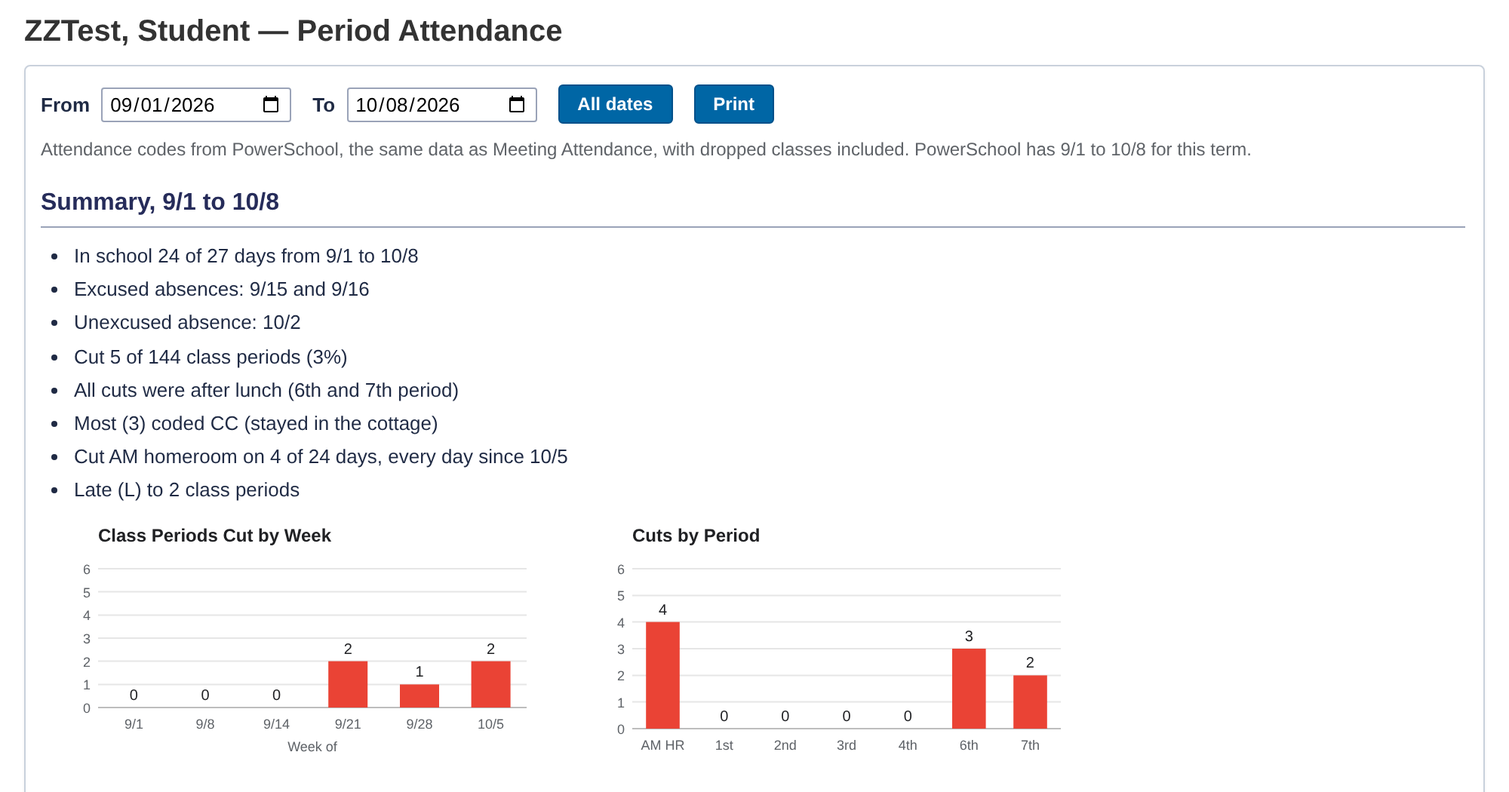
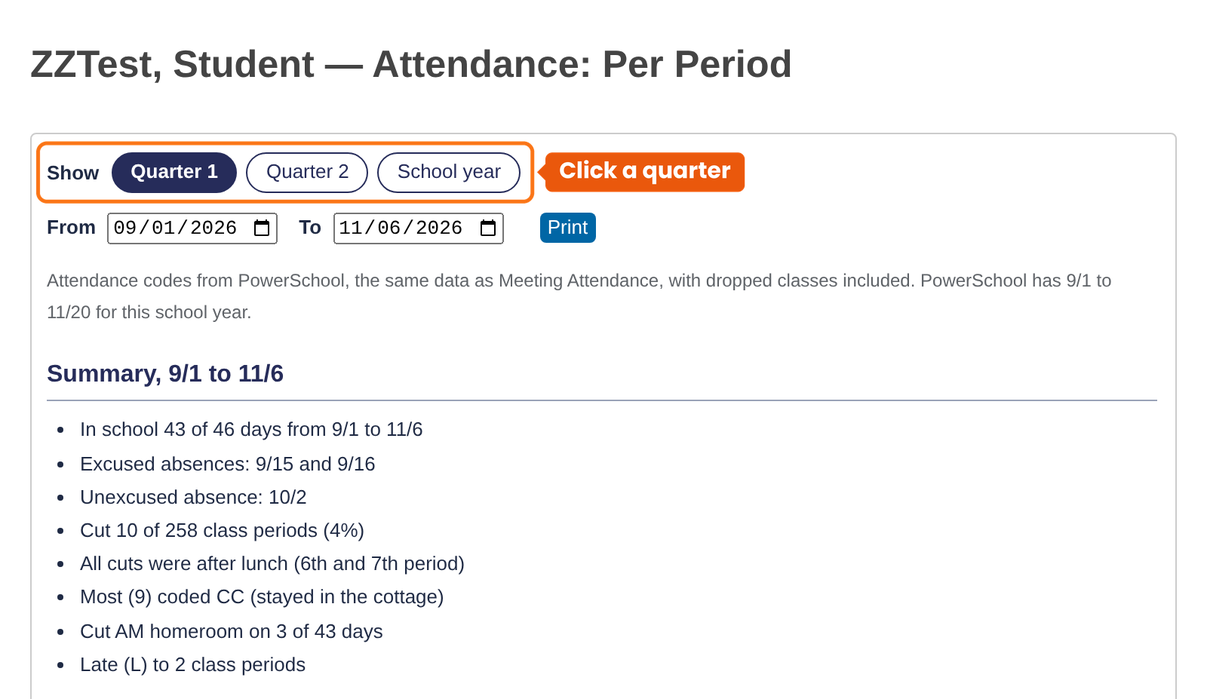
Attendance: Per Period - quarter buttons (Quarter 1, Quarter 2, School year), no term change; new pictures

diff --git a/attendance-reports-admin.html b/attendance-reports-admin.html
@@ -133,15 +133,15 @@ body.narrow table.codes td.c{width:auto}
 <div class="top"><div class="kicker">SUMMIT POWERSCHOOL HELP CENTER &middot; ADMIN PORTAL</div><h1>Attendance Reports</h1></div>
 <div class="chips"><span class="chip">SOCIAL WORKERS &middot; COUNSELORS &middot; COORDINATORS</span><span class="chip">ATTENDANCE MENU</span><span class="chip">LOOK &amp; PRINT ONLY</span><a class="full" id="full" href="#" target="_blank" rel="noopener">OPEN FULL SCREEN &nearr;</a></div>
 <div class="layout">
-<nav class="rail" aria-label="Steps"><button data-s="start" data-num="0"><span class="n">?</span><span class="t">Which one do I need?</span></button><div class="grp">PER PERIOD</div><button data-s="step-1" data-num="1"><span class="n">1</span><span class="t">Open it from the menu</span></button><button data-s="step-2" data-num="1"><span class="n">2</span><span class="t">Pick the student</span></button><button data-s="step-3" data-num="1"><span class="n">3</span><span class="t">Summary &amp; charts</span></button><button data-s="step-4" data-num="1"><span class="n">4</span><span class="t">Codes by Day</span></button><button data-s="step-5" data-num="1"><span class="n">5</span><span class="t">Comments</span></button><div class="grp">PER DAY</div><button data-s="step-6" data-num="1"><span class="n">6</span><span class="t">Open it from the menu</span></button><button data-s="step-7" data-num="1"><span class="n">7</span><span class="t">Student, then dates</span></button><button data-s="step-8" data-num="1"><span class="n">8</span><span class="t">Check the yellow box</span></button><button data-s="step-9" data-num="1"><span class="n">9</span><span class="t">Print or Save as PDF</span></button></nav>
+<nav class="rail" aria-label="Steps"><button data-s="start" data-num="0"><span class="n">?</span><span class="t">Which one do I need?</span></button><div class="grp">PER PERIOD</div><button data-s="step-1" data-num="1"><span class="n">1</span><span class="t">Open it from the menu</span></button><button data-s="step-2" data-num="1"><span class="n">2</span><span class="t">Pick the student</span></button><button data-s="step-3" data-num="1"><span class="n">3</span><span class="t">Quarter &amp; Summary</span></button><button data-s="step-4" data-num="1"><span class="n">4</span><span class="t">Codes by Day</span></button><button data-s="step-5" data-num="1"><span class="n">5</span><span class="t">Comments</span></button><div class="grp">PER DAY</div><button data-s="step-6" data-num="1"><span class="n">6</span><span class="t">Open it from the menu</span></button><button data-s="step-7" data-num="1"><span class="n">7</span><span class="t">Student, then dates</span></button><button data-s="step-8" data-num="1"><span class="n">8</span><span class="t">Check the yellow box</span></button><button data-s="step-9" data-num="1"><span class="n">9</span><span class="t">Print or Save as PDF</span></button></nav>
 <main>
-<section class="step" id="start"><span class="eyebrow">WHICH ONE DO I NEED?</span><h2>Two Summit reports in the Attendance menu</h2><p class="lead">Both live in the left menu under <span class="path">Attendance</span> &rarr; <span class="path">Summit Attendance Reports</span>. Both are look-and-print only &mdash; nothing on either page changes attendance.</p><div class="boxes two"><div class="box"><div class="bl">&#9638; ATTENDANCE: PER PERIOD</div><p><b>Every period, every day.</b> The code for every school day and every period (AM homeroom, 1st&ndash;4th, 6th, 7th), with the <b>cuts counted for you</b> and two charts. Use it to spot a pattern &mdash; before a meeting, a call home or a team check-in.</p><p style="margin-top:8px"><b>Who uses it:</b> social workers, counselors, coordinators. Teachers have the same screen in PowerTeacher.</p></div><div class="box"><div class="bl">&#128424; ATTENDANCE: PER DAY</div><p><b>Present / Absent, to send.</b> One line per school day with month subtotals, no-school days and totals, ready to <b>print or save as a PDF</b>. Built for <b>district and agency requests</b>: one month, the school year so far, or any dates.</p><p style="margin-top:8px"><b>Who uses it:</b> Summit's executive assistant, or whoever gets the request. Teachers have it too.</p></div></div><div class="callout"><div class="clabel">GOOD TO KNOW</div><div class="gk"><span class="ic">&#128228;</span><span>A district asked for attendance? Send <b>Attendance: Per Day</b>. Per Period is for us, not for districts.</span></div><div class="gk"><span class="ic">&#128274;</span><span><b>Look and print only.</b> Nothing on either page changes attendance.</span></div><div class="gk"><span class="ic">&#129514;</span><span>ZZTest isn't in these lists on purpose. Looking can't change anything, so any real student is fine.</span></div></div><div class="pager"><button class="ghost" disabled>Back</button><button data-go="step-1">Start: Per Period &rarr;</button></div></section>
+<section class="step" id="start"><span class="eyebrow">WHICH ONE DO I NEED?</span><h2>Two Summit reports in the Attendance menu</h2><p class="lead">Both live in the left menu under <span class="path">Attendance</span> &rarr; <span class="path">Summit Attendance Reports</span>. Both are look-and-print only &mdash; nothing on either page changes attendance.</p><div class="boxes two"><div class="box"><div class="bl">&#9638; ATTENDANCE: PER PERIOD</div><p><b>Every period, every day.</b> The code for every school day and every period (AM homeroom, 1st&ndash;4th, 6th, 7th), for <b>any quarter or the whole school year</b>, with the <b>cuts counted for you</b> and two charts. Use it to spot a pattern &mdash; before a meeting, a call home or a team check-in.</p><p style="margin-top:8px"><b>Who uses it:</b> social workers, counselors, coordinators. Teachers have the same screen in PowerTeacher.</p></div><div class="box"><div class="bl">&#128424; ATTENDANCE: PER DAY</div><p><b>Present / Absent, to send.</b> One line per school day with month subtotals, no-school days and totals, ready to <b>print or save as a PDF</b>. Built for <b>district and agency requests</b>: one month, the school year so far, or any dates.</p><p style="margin-top:8px"><b>Who uses it:</b> Summit's executive assistant, or whoever gets the request. Teachers have it too.</p></div></div><div class="callout"><div class="clabel">GOOD TO KNOW</div><div class="gk"><span class="ic">&#128228;</span><span>A district asked for attendance? Send <b>Attendance: Per Day</b>. Per Period is for us, not for districts.</span></div><div class="gk"><span class="ic">&#128274;</span><span><b>Look and print only.</b> Nothing on either page changes attendance.</span></div><div class="gk"><span class="ic">&#129514;</span><span>ZZTest isn't in these lists on purpose. Looking can't change anything, so any real student is fine.</span></div></div><div class="pager"><button class="ghost" disabled>Back</button><button data-go="step-1">Start: Per Period &rarr;</button></div></section>
 
 <section class="step" id="step-1"><span class="eyebrow">PER PERIOD &middot; STEP 1 OF 5</span><h2>Attendance &rarr; Summit Attendance Reports &rarr; Attendance: Per Period</h2><ol class="steps"><li><span class="num">1</span><div>In the left menu, click <span class="path">Attendance</span>.</div></li><li><span class="num">2</span><div>In the third column, <b>Summit Attendance Reports</b>, click <span class="path">Attendance: Per Period</span>.</div></li></ol><figure class="fig"><a href="ar-admin-1.png" target="_blank" rel="noopener"><img src="ar-admin-1.png" alt="the Attendance menu with Summit Attendance Reports"></a><div class="ph"><span class="pl">PICTURE 1</span>Screenshot coming: the Attendance menu with Summit Attendance Reports.</div><figcaption><b>PICTURE 1</b> &mdash; The Attendance menu: Summit Attendance Reports is the third column (Attendance: Per Period and Attendance: Per Day).</figcaption></figure><div class="pager"><button class="ghost" data-go="start">Back</button><button data-go="step-2">Next: Pick the student &rarr;</button></div></section>
 
-<section class="step" id="step-2"><span class="eyebrow">PER PERIOD &middot; STEP 2 OF 5</span><h2>Pick the student</h2><ol class="steps"><li><span class="num">1</span><div>Type a <b>last name, first name or student number</b> in the box and click the student.</div></li><li><span class="num">2</span><div>Students who have left Summit are in the list too.</div></li><li><span class="num">3</span><div>Wrong one? Click <span class="ui">Pick a different student</span>.</div></li></ol><figure class="fig"><a href="ar-admin-2.png" target="_blank" rel="noopener"><img src="ar-admin-2.png" alt="the student search box"></a><div class="ph"><span class="pl">PICTURE 2</span>Screenshot coming: the student search box.</div><figcaption><b>PICTURE 2</b> &mdash; Attendance: Per Period &mdash; type a last name, first name or student number in the box, then click the student.</figcaption></figure><div class="pager"><button class="ghost" data-go="step-1">Back</button><button data-go="step-3">Next: Summary &amp; charts &rarr;</button></div></section>
+<section class="step" id="step-2"><span class="eyebrow">PER PERIOD &middot; STEP 2 OF 5</span><h2>Pick the student</h2><ol class="steps"><li><span class="num">1</span><div>Type a <b>last name, first name or student number</b> in the box and click the student.</div></li><li><span class="num">2</span><div>Students who have left Summit are in the list too.</div></li><li><span class="num">3</span><div>Wrong one? Click <span class="ui">Pick a different student</span>.</div></li></ol><figure class="fig"><a href="ar-admin-2.png" target="_blank" rel="noopener"><img src="ar-admin-2.png" alt="the student search box"></a><div class="ph"><span class="pl">PICTURE 2</span>Screenshot coming: the student search box.</div><figcaption><b>PICTURE 2</b> &mdash; Attendance: Per Period &mdash; type a last name, first name or student number in the box, then click the student.</figcaption></figure><div class="pager"><button class="ghost" data-go="step-1">Back</button><button data-go="step-3">Next: Quarter &amp; Summary &rarr;</button></div></section>
 
-<section class="step" id="step-3"><span class="eyebrow">PER PERIOD &middot; STEP 3 OF 5</span><h2>Read the Summary and the two charts</h2><p class="lead">It opens on the <b>whole term so far</b>.</p><ul class="bul"><li>The <b>Summary</b> says it in a few lines: days in school, absences, cuts and when they happen, <b>CC</b> (stayed in the cottage) vs <b>CG</b> (on campus, not in class), AM homeroom cuts and lates.</li><li>The charts show <b>cuts by week</b> and <b>cuts by period</b>.</li><li>Change <b>From</b> / <b>To</b> for a stretch &mdash; <span class="ui">All dates</span> puts it back. <span class="ui">Print</span> prints just the report; <span class="ui">Open their Attendance Overview</span> opens PowerSchool's own page.</li></ul><figure class="fig"><a href="ar-admin-3.png" target="_blank" rel="noopener"><img src="ar-admin-3.png" alt="Attendance: Per Period with the dates, Summary and charts"></a><div class="ph"><span class="pl">PICTURE 3</span>Screenshot coming: Attendance: Per Period with the dates, Summary and charts.</div><figcaption><b>PICTURE 3</b> &mdash; Attendance: Per Period &mdash; the dates (From, To, All dates, Print), the Summary and the two cut charts (sample: the test student).</figcaption></figure><div class="pager"><button class="ghost" data-go="step-2">Back</button><button data-go="step-4">Next: Codes by Day &rarr;</button></div></section>
+<section class="step" id="step-3"><span class="eyebrow">PER PERIOD &middot; STEP 3 OF 5</span><h2>Pick the quarter, then read the Summary</h2><p class="lead">It opens on <b>this quarter</b>.</p><ul class="bul"><li>Next to <b>Show</b>, click <span class="ui">Quarter 1</span>, <span class="ui">Quarter 2</span>&hellip; or <span class="ui">School year</span>. <b>No need to change the term in the top corner.</b></li><li>A <b>greyed-out quarter</b> means the student has no school days in it.</li><li>For any other stretch, change <b>From</b> / <b>To</b>.</li><li>The <b>Summary</b> says it in a few lines: days in school, absences, cuts and when they happen, <b>CC</b> (stayed in the cottage) vs <b>CG</b> (on campus, not in class), AM homeroom cuts and lates.</li><li>The charts show <b>cuts by week</b> (by month for a long stretch) and <b>cuts by period</b>.</li><li><span class="ui">Print</span> prints just the report; <span class="ui">Open their Attendance Overview</span> opens PowerSchool's own page.</li></ul><figure class="fig"><a href="ar-admin-3.png" target="_blank" rel="noopener"><img src="ar-admin-3.png" alt="Attendance: Per Period with the quarter buttons, the dates, the Summary and the charts"></a><div class="ph"><span class="pl">PICTURE 3</span>Screenshot coming: Attendance: Per Period with the quarter buttons, the dates, the Summary and the charts.</div><figcaption><b>PICTURE 3</b> &mdash; Attendance: Per Period &mdash; the Show buttons (Quarter 1, Quarter 2, School year), From, To and Print, then the Summary and the two cut charts (sample: the test student).</figcaption></figure><div class="pager"><button class="ghost" data-go="step-2">Back</button><button data-go="step-4">Next: Codes by Day &rarr;</button></div></section>
 
 <section class="step" id="step-4"><span class="eyebrow">PER PERIOD &middot; STEP 4 OF 5</span><h2>Read Codes by Day</h2><p class="lead">One row per school day, grouped by week, and one column per period: <b>AM HR</b>, <b>1st</b>&ndash;<b>4th</b>, <b>6th</b>, <b>7th</b> (no 5th &mdash; that's lunch).</p><div class="key"><span class="cut">Cut &mdash; CC, CG</span><span class="abs">Absent &mdash; A, OSS</span><span class="exc">Excused &mdash; EA, AP, OC, TR, WS, IH</span><span class="late">Late &mdash; L</span></div><p class="txt">A <b>blank</b> box = no code entered, which counts as present. A <b>dash</b> = not in that class yet.</p><figure class="fig"><a href="ar-admin-4.png" target="_blank" rel="noopener"><img src="ar-admin-4.png" alt="the Codes by Day grid"></a><div class="ph"><span class="pl">PICTURE 4</span>Screenshot coming: the Codes by Day grid.</div><figcaption><b>PICTURE 4</b> &mdash; Codes by Day: one row per school day, one column per period. Pink = cut, red = absent, blue = excused, yellow = late (sample: the test student).</figcaption></figure><div class="pager"><button class="ghost" data-go="step-3">Back</button><button data-go="step-5">Next: Comments &rarr;</button></div></section>
 

diff --git a/attendance-reports-teacher.html b/attendance-reports-teacher.html
@@ -135,7 +135,7 @@ body.narrow table.codes td.c{width:auto}
 <div class="layout">
 <nav class="rail" aria-label="Steps"><button data-s="start" data-num="0"><span class="n">?</span><span class="t">Which one do I need?</span></button><div class="grp">HOW TO OPEN EITHER ONE</div><button data-s="step-1" data-num="1"><span class="n">1</span><span class="t">Start Page &rarr; Student Information</span></button><button data-s="step-2" data-num="1"><span class="n">2</span><span class="t">Click the student</span></button><button data-s="step-3" data-num="1"><span class="n">3</span><span class="t">Select Screens</span></button><div class="grp">PER DAY</div><button data-s="step-4" data-num="1"><span class="n">4</span><span class="t">Pick the dates</span></button><button data-s="step-5" data-num="1"><span class="n">5</span><span class="t">Check the yellow box</span></button><button data-s="step-6" data-num="1"><span class="n">6</span><span class="t">Print or Save as PDF</span></button><div class="grp">PER PERIOD</div><button data-s="step-7" data-num="1"><span class="n">7</span><span class="t">The dates</span></button><button data-s="step-8" data-num="1"><span class="n">8</span><span class="t">Summary &amp; charts</span></button><button data-s="step-9" data-num="1"><span class="n">9</span><span class="t">Codes by Day</span></button><button data-s="step-10" data-num="1"><span class="n">10</span><span class="t">Comments</span></button></nav>
 <main>
-<section class="step" id="start"><span class="eyebrow">WHICH ONE DO I NEED?</span><h2>Two attendance screens, on every student's page</h2><p class="lead">Both sit at the <b>top of Select Screens</b> on any student's page. Both are look-and-print only &mdash; nothing on either one changes attendance.</p><div class="boxes two"><div class="box"><div class="bl">&#128424; ATTENDANCE: PER DAY</div><p><b>Present / Absent, to send to a district.</b> One line per school day with month subtotals, no-school days and totals, ready to <b>print or save as a PDF</b>. <b>This is the one you send</b> when a district or agency asks for a student's attendance: one month, the school year so far, or any dates. Same record the office prints.</p></div><div class="box"><div class="bl">&#9638; ATTENDANCE: PER PERIOD</div><p><b>Every period, every day.</b> The code for every school day and every period (AM homeroom, 1st&ndash;4th, 6th, 7th), with the <b>cuts counted for you</b> and two charts. For <b>inside Summit</b> &mdash; a team check-in, a call home, a parent conversation &mdash; not for sending to a district.</p></div></div><div class="callout"><div class="clabel">GOOD TO KNOW</div><div class="gk"><span class="ic">&#128228;</span><span>A district asked for attendance? Send <b>Attendance: Per Day</b>. Per Period is for us, not for districts.</span></div><div class="gk"><span class="ic">&#128274;</span><span><b>Look and print only.</b> Nothing here changes attendance. Today's codes are fixed in Take Attendance; an older date &mdash; reach out.</span></div></div><div class="pager"><button class="ghost" disabled>Back</button><button data-go="step-1">Start: open a student &rarr;</button></div></section>
+<section class="step" id="start"><span class="eyebrow">WHICH ONE DO I NEED?</span><h2>Two attendance screens, on every student's page</h2><p class="lead">Both sit at the <b>top of Select Screens</b> on any student's page. Both are look-and-print only &mdash; nothing on either one changes attendance.</p><div class="boxes two"><div class="box"><div class="bl">&#128424; ATTENDANCE: PER DAY</div><p><b>Present / Absent, to send to a district.</b> One line per school day with month subtotals, no-school days and totals, ready to <b>print or save as a PDF</b>. <b>This is the one you send</b> when a district or agency asks for a student's attendance: one month, the school year so far, or any dates. Same record the office prints.</p></div><div class="box"><div class="bl">&#9638; ATTENDANCE: PER PERIOD</div><p><b>Every period, every day.</b> The code for every school day and every period (AM homeroom, 1st&ndash;4th, 6th, 7th), for <b>any quarter or the whole school year</b>, with the <b>cuts counted for you</b> and two charts. For <b>inside Summit</b> &mdash; a team check-in, a call home, a parent conversation &mdash; not for sending to a district.</p></div></div><div class="callout"><div class="clabel">GOOD TO KNOW</div><div class="gk"><span class="ic">&#128228;</span><span>A district asked for attendance? Send <b>Attendance: Per Day</b>. Per Period is for us, not for districts.</span></div><div class="gk"><span class="ic">&#128274;</span><span><b>Look and print only.</b> Nothing here changes attendance. Today's codes are fixed in Take Attendance; an older date &mdash; reach out.</span></div></div><div class="pager"><button class="ghost" disabled>Back</button><button data-go="step-1">Start: open a student &rarr;</button></div></section>
 
 <section class="step" id="step-1"><span class="eyebrow">OPEN IT &middot; STEP 1 OF 3</span><h2>Start Page &rarr; Student Information</h2><ol class="steps"><li><span class="num">1</span><div>On your <b>Start Page</b>, find the class and click the little <b>ID-card icon</b> in the <b>Student Information</b> column.</div></li><li><span class="num">2</span><div>The students in that class come up.</div></li></ol><figure class="fig"><a href="ar-teacher-1.png" target="_blank" rel="noopener"><img src="ar-teacher-1.png" alt="the Start Page with the Student Information column marked"></a><div class="ph"><span class="pl">PICTURE 1</span>Screenshot coming: the Start Page with the Student Information column marked.</div><figcaption><b>PICTURE 1</b> &mdash; Start Page: click the ID-card icon in the Student Information column for the class.</figcaption></figure><div class="pager"><button class="ghost" data-go="start">Back</button><button data-go="step-2">Next: Click the student &rarr;</button></div></section>
 
@@ -154,9 +154,9 @@ body.narrow table.codes td.c{width:auto}
 
 <section class="step" id="step-6"><span class="eyebrow">PER DAY &middot; STEP 3 OF 3</span><h2>Print or Save as PDF</h2><ol class="steps"><li><span class="num">1</span><div>The <b>preview</b> is exactly what prints: <b>Student Attendance Record</b> with the name, student #, date of birth, district of residence, totals and every school day.</div></li><li><span class="num">2</span><div>Click <span class="ui">Print or Save as PDF</span>.</div></li><li><span class="num">3</span><div>In the print window, pick a printer &mdash; or change <b>Destination</b> to <b>Save as PDF</b> to email it.</div></li></ol><div class="callout"><div class="clabel">GOOD TO KNOW</div><div class="gk"><span class="ic">&#9989;</span><span><b>Present</b> on the Per Day record = in school for at least one period &mdash; CG and CC count, the student was on grounds. It stops at yesterday; today isn't final until tomorrow.</span></div></div><div class="pager"><button class="ghost" data-go="step-5">Back</button><button data-go="step-7">Next: Per Period &rarr;</button></div></section>
 
-<section class="step" id="step-7"><span class="eyebrow">PER PERIOD &middot; PART 1 OF 4</span><h2>The dates &mdash; From, To, All dates, Print</h2><ol class="steps"><li><span class="num">1</span><div>It opens on the <b>whole term so far</b>.</div></li><li><span class="num">2</span><div>Change <b>From</b> and <b>To</b> to look at just a stretch &mdash; since the last meeting, say. <span class="ui">All dates</span> puts it back.</div></li><li><span class="num">3</span><div><span class="ui">Print</span> prints just the report, not the PowerSchool menus.</div></li></ol><figure class="fig"><a href="ar-teacher-3.png" target="_blank" rel="noopener"><img src="ar-teacher-3.png" alt="Attendance: Per Period with the dates, Summary and charts"></a><div class="ph"><span class="pl">PICTURE 3</span>Screenshot coming: Attendance: Per Period with the dates, Summary and charts.</div><figcaption><b>PICTURE 3</b> &mdash; Attendance: Per Period &mdash; the dates (From, To, All dates, Print), the Summary and the two cut charts (sample: the test student).</figcaption></figure><div class="pager"><button class="ghost" data-go="step-6">Back</button><button data-go="step-8">Next: Summary &amp; charts &rarr;</button></div></section>
+<section class="step" id="step-7"><span class="eyebrow">PER PERIOD &middot; PART 1 OF 4</span><h2>The dates &mdash; quarter buttons, From, To, Print</h2><ol class="steps"><li><span class="num">1</span><div>It opens on <b>this quarter</b>.</div></li><li><span class="num">2</span><div>Next to <b>Show</b>, click <span class="ui">Quarter 1</span>, <span class="ui">Quarter 2</span>&hellip; for another quarter, or <span class="ui">School year</span> for everything since September.</div></li><li><span class="num">3</span><div>For any other stretch &mdash; since the last meeting, say &mdash; change <b>From</b> and <b>To</b>.</div></li><li><span class="num">4</span><div><span class="ui">Print</span> prints just the report, not the PowerSchool menus.</div></li></ol><figure class="fig"><a href="ar-teacher-3.png" target="_blank" rel="noopener"><img src="ar-teacher-3.png" alt="Attendance: Per Period with the quarter buttons, the dates and the Summary"></a><div class="ph"><span class="pl">PICTURE 3</span>Screenshot coming: Attendance: Per Period with the quarter buttons, the dates and the Summary.</div><figcaption><b>PICTURE 3</b> &mdash; Attendance: Per Period &mdash; the Show buttons (Quarter 1, Quarter 2, School year), From, To and Print, with the Summary under them (sample: the test student).</figcaption></figure><div class="callout"><div class="clabel">GOOD TO KNOW</div><div class="gk"><span class="ic">&#128197;</span><span>A <b>greyed-out quarter</b> means the student has no school days in that quarter.</span></div></div><div class="pager"><button class="ghost" data-go="step-6">Back</button><button data-go="step-8">Next: Summary &amp; charts &rarr;</button></div></section>
 
-<section class="step" id="step-8"><span class="eyebrow">PER PERIOD &middot; PART 2 OF 4</span><h2>The Summary and two charts</h2><p class="lead">A few short lines that say it for you &mdash; and two charts under them.</p><ul class="bul"><li>Days <b>in school</b>, which days were <b>absent</b> (excused or not), how many <b>class periods were cut</b> and when &mdash; before lunch, after lunch or all over.</li><li>Whether the cuts were <b>CC</b> (stayed in the cottage) or <b>CG</b> (on campus, not in class), <b>AM homeroom</b> cuts and <b>lates</b>.</li><li><b>Class Periods Cut by Week</b> and <b>Cuts by Period</b> &mdash; is it getting better or worse, and is it always the same period?</li></ul><div class="pager"><button class="ghost" data-go="step-7">Back</button><button data-go="step-9">Next: Codes by Day &rarr;</button></div></section>
+<section class="step" id="step-8"><span class="eyebrow">PER PERIOD &middot; PART 2 OF 4</span><h2>The Summary and two charts</h2><p class="lead">A few short lines that say it for you &mdash; and two charts under them.</p><ul class="bul"><li>Days <b>in school</b>, which days were <b>absent</b> (excused or not), how many <b>class periods were cut</b> and when &mdash; before lunch, after lunch or all over.</li><li>Whether the cuts were <b>CC</b> (stayed in the cottage) or <b>CG</b> (on campus, not in class), <b>AM homeroom</b> cuts and <b>lates</b>.</li><li><b>Class Periods Cut by Week</b> (by month for a long stretch) and <b>Cuts by Period</b> &mdash; is it getting better or worse, and is it always the same period?</li></ul><figure class="fig"><a href="ar-teacher-3b.png" target="_blank" rel="noopener"><img src="ar-teacher-3b.png" alt="The two charts: class periods cut by month, and cuts by period"></a><div class="ph"><span class="pl">PICTURE 3B</span>Screenshot coming: the two charts under the Summary.</div><figcaption><b>PICTURE 3B</b> &mdash; The two charts under the Summary: class periods cut over time, and cuts by period (sample: the test student).</figcaption></figure><div class="pager"><button class="ghost" data-go="step-7">Back</button><button data-go="step-9">Next: Codes by Day &rarr;</button></div></section>
 
 <section class="step" id="step-9"><span class="eyebrow">PER PERIOD &middot; PART 3 OF 4</span><h2>Codes by Day &mdash; every day, every period</h2><p class="lead">One row per school day, grouped by week. One column per period: <b>AM HR</b>, <b>1st</b>, <b>2nd</b>, <b>3rd</b>, <b>4th</b>, <b>6th</b>, <b>7th</b> (no 5th &mdash; that's lunch).</p><div class="key"><span class="cut">Cut &mdash; CC, CG</span><span class="abs">Absent &mdash; A, OSS</span><span class="exc">Excused &mdash; EA, AP, OC, TR, WS, IH</span><span class="late">Late &mdash; L</span></div><p class="txt">A <b>blank</b> box = no code entered, which counts as present. A <b>dash</b> = not in that class yet.</p><figure class="fig"><a href="ar-teacher-4.png" target="_blank" rel="noopener"><img src="ar-teacher-4.png" alt="the Codes by Day grid"></a><div class="ph"><span class="pl">PICTURE 4</span>Screenshot coming: the Codes by Day grid.</div><figcaption><b>PICTURE 4</b> &mdash; Codes by Day: one row per school day, one column per period. Pink = cut, red = absent, blue = excused, yellow = late (sample: the test student).</figcaption></figure><div class="pager"><button class="ghost" data-go="step-8">Back</button><button data-go="step-10">Next: Comments &rarr;</button></div></section>
 
